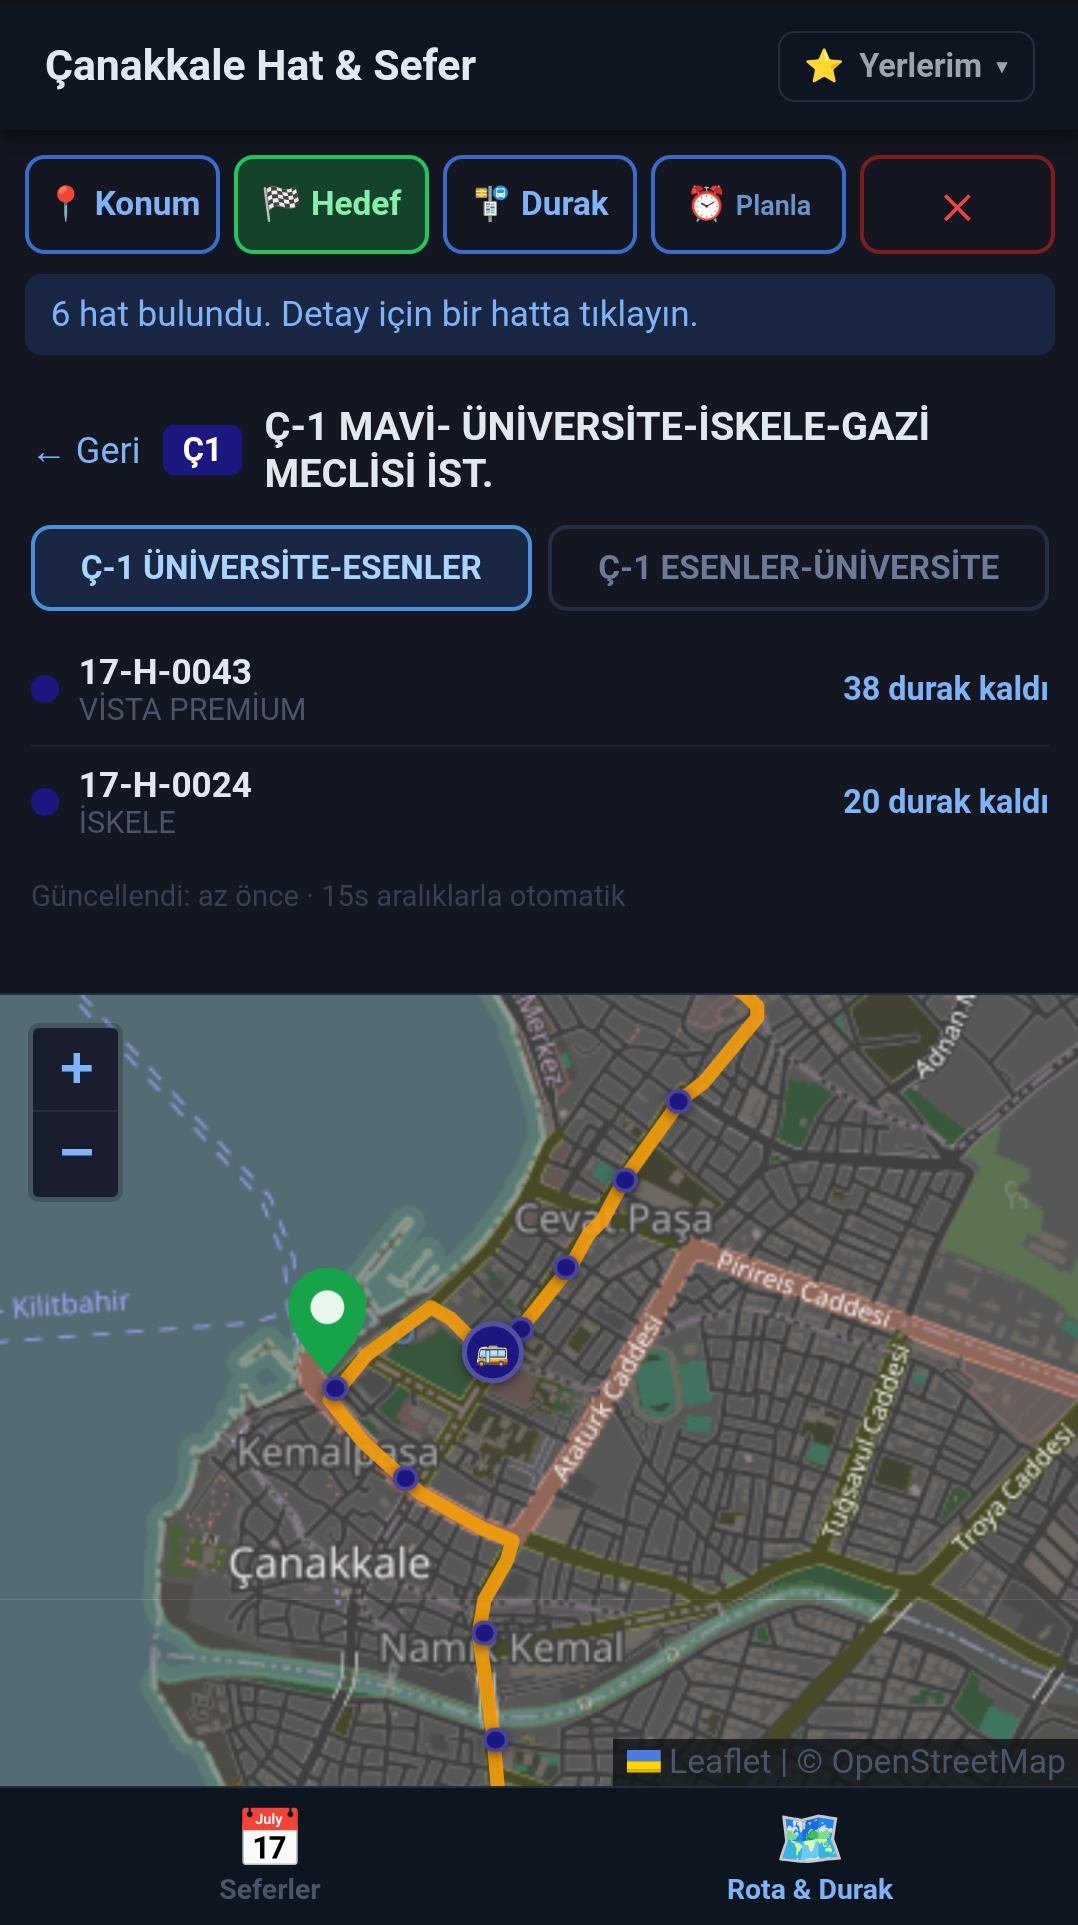
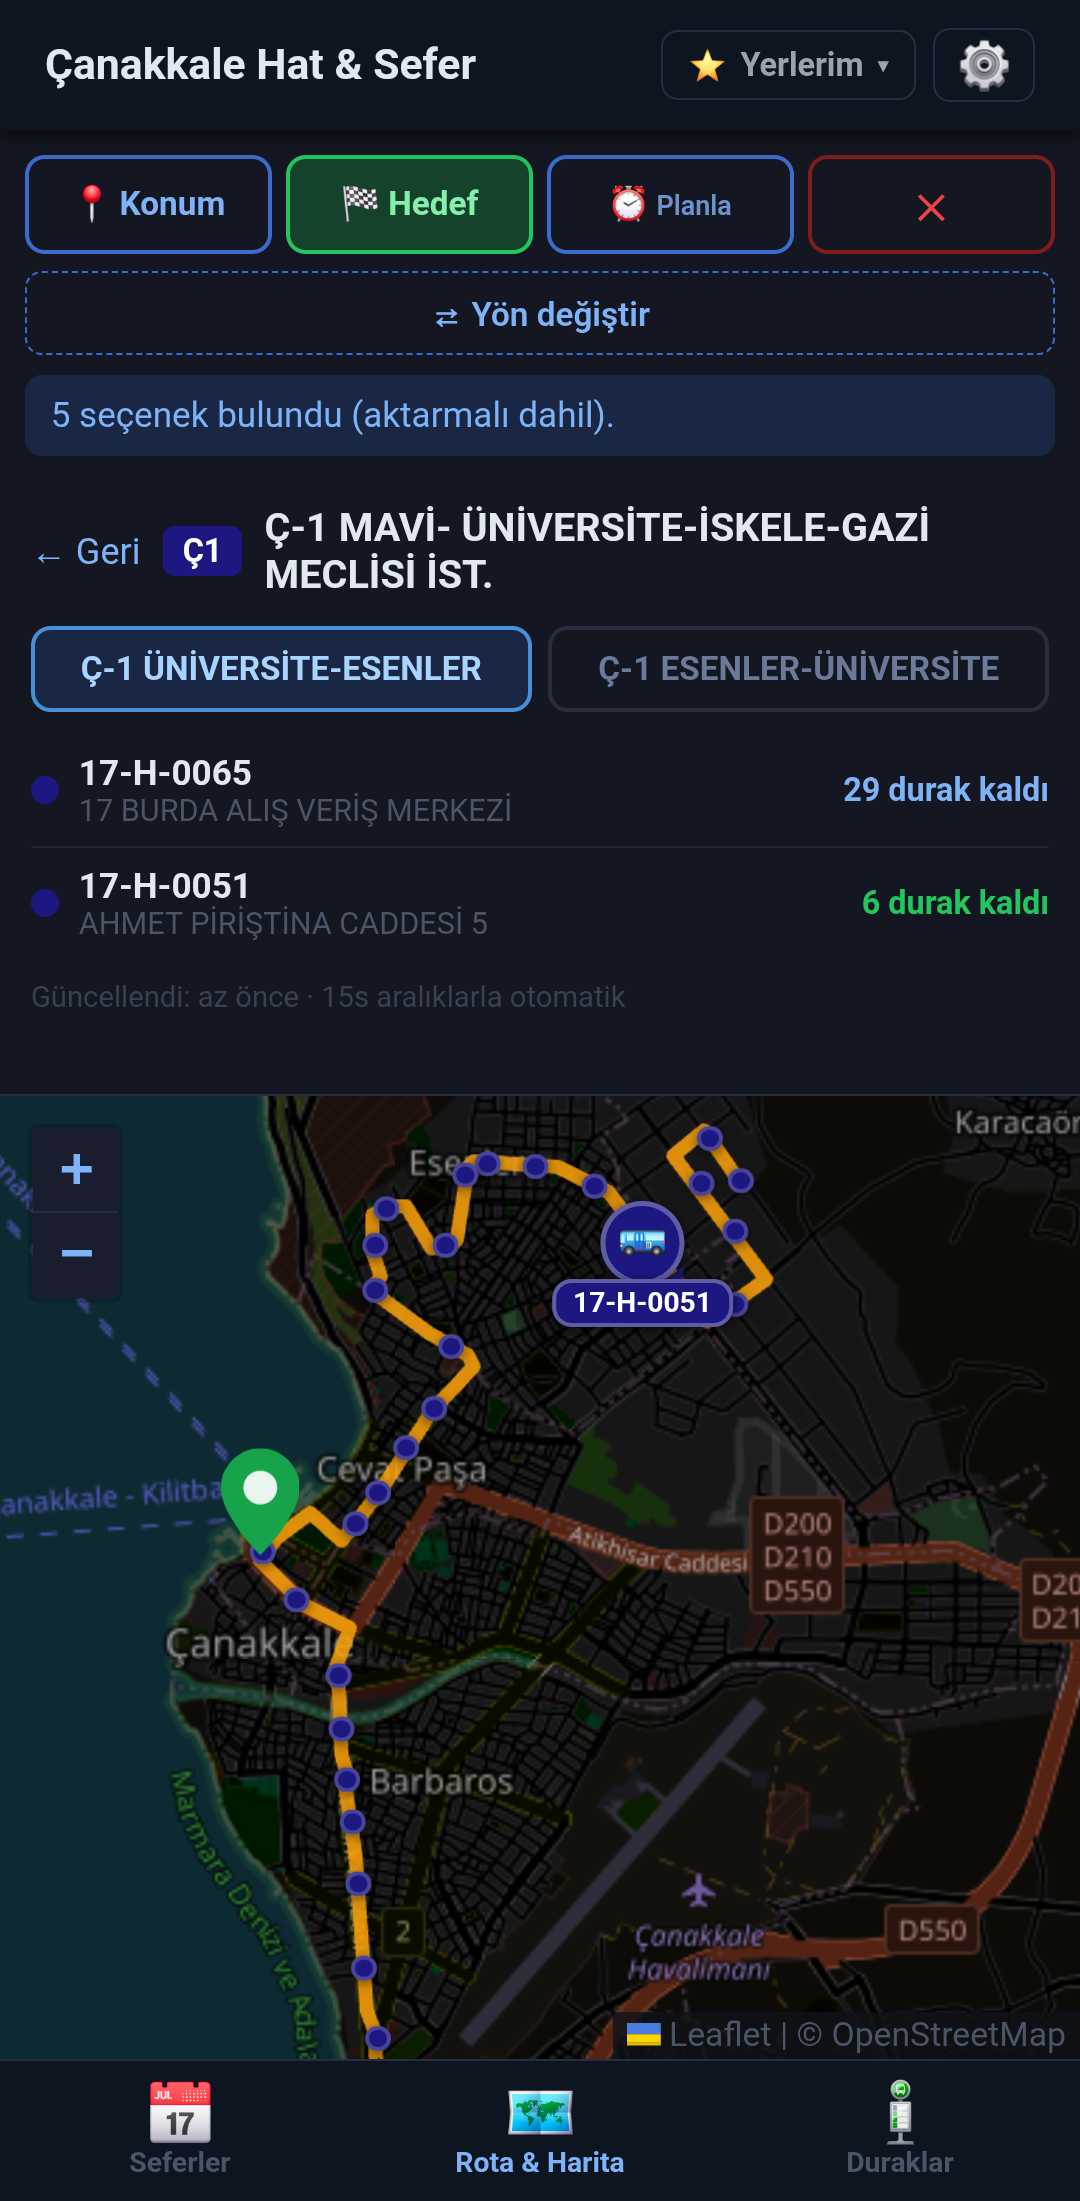
update canakkale-hat-sefer.md and its screenshots

diff --git a/_pages/projects/canakkale-hat-sefer.md b/_pages/projects/canakkale-hat-sefer.md
@@ -38,16 +38,22 @@ Each tab shows all routes with departure times split by direction. On today's ta
 
 ---
 
-## Rota & Durak — Trip Planner & Live Map
+## Rota & Harita — Trip Planner & Live Map
 
-Tap the map (or use GPS) to pick a start and destination. The planner finds all direct routes connecting them and ranks results by **total ETA** — walk to stop + wait for next bus + ride + walk to destination.
+Tap the map (or use GPS) to pick a start and destination. The planner finds all direct routes **and one-transfer trips** connecting them and ranks results by **total ETA** — walk to stop + wait for next bus + ride + walk to destination.
 
+- **One-transfer trips** — when no single bus connects the two points, or a transfer is faster, the planner assembles a two-leg trip with a walking transfer between lines. A transfer only outranks a direct bus when it genuinely saves time
+- **Real walking distances** — walking segments use Valhalla pedestrian routing, so reachability and ETAs reflect actual on-foot distances that cross roads and follow footpaths, batched through Valhalla's distance-matrix API
+- **Taxi alternative** — each result list ends with a 🚕 taxi card showing driving distance, time, and an approximate fare from the Çanakkale tariff; tap it to draw the cab's route on the map
 - **Plan ahead** — time offset buttons (+30 dk, +1 sa, +2 sa) plan for departures later in the day
 - **Live bus data** — shows buses approaching your boarding stop right now with stop-level ETAs
 - **Schedule fallback** — when kentkart returns no live data, the next scheduled departure is used instead. On Bayram, Arefe, or any dated special day, the planner consults the matching schedule instead of the regular weekday one
 - **Stop browser** — tap any stop on the map to see which routes serve it and when the next bus comes
 
-![Trip planner](/assets/images/17hatsefer-planner.png)
+<p>
+  <img src="/assets/images/17hatsefer-planner.png" width="49%" alt="Trip planner showing route options sorted by ETA">
+  <img src="/assets/images/17hatsefer-one-transfer.png" width="49%" alt="One transfer trip map view">
+</p>
 
 ---
 
@@ -72,6 +78,22 @@ Subscribe to arrival alerts from any trip detail. Notifications fire at **10, 5,
 Bookmark home, work, or any frequent spot. Saved locations appear in a dropdown next to the app title — tap 📍 or 🏁 to instantly set one as your origin or destination without touching the map.
 
 The planner also remembers your last 5 destinations as a chip row, and a **⇄ Yön değiştir** button swaps origin and destination in place when both are set.
+
+---
+
+## Duraklar — Stop Hub
+
+A dedicated tab for finding and managing stops without touching the map.
+
+- **Search** by stop name with Turkish-folded matching, so `kepez` finds *Kepez* and `iskele` finds *İskele* regardless of dotted/dotless I and other Turkish letters
+- **Favoriler** — star any stop to pin it to the top of the list, persisted across reloads
+- **Son açılanlar** — the last 5 stops you opened
+- **Yakındaki duraklar** — the 8 nearest stops when GPS is granted, each row showing its distance, with a graceful fallback when location is denied
+- **Route chips** — every stop row carries the kentkart route color badges that serve it, so you can pick the right stop at a glance
+- **Detail view** — tap a stop to see its routes with live status per direction (*durağa geldi*, *N durak uzaklıkta*, *aktif araç yok*, or a scheduled fallback), sorted with the closest approaching bus first
+- **📍 Haritada göster** drops a labelled pin for that exact stop on the planner map, and **🔗 Paylaş** generates a `?stop=<id>` deep-link via the native share sheet or clipboard so others can open the same stop directly
+
+![Duraklar tab](/assets/images/17hatsefer-stops.png)
 
 ---
 
@@ -113,6 +135,7 @@ sequenceDiagram
     participant User
     participant Browser as Browser (index.html)
     participant GHPages as GitHub Pages
+    participant Valhalla as Valhalla
     participant Kentkart as Kentkart API
 
     User->>Browser: Open app
@@ -122,11 +145,14 @@ sequenceDiagram
     GHPages-->>Browser: Routes, stop coords, path polylines
 
     User->>Browser: Tap map origin + destination
-    Browser->>Browser: Find routes connecting stops
+    Browser->>Valhalla: Pedestrian distance matrix (origin/dest ↔ nearby stops)
+    Valhalla-->>Browser: Real on-foot walk distances
+    Browser->>Browser: Build direct + 1-transfer trips, rank by ETA
     Browser->>Kentkart: GET /pathInfo for each candidate route
     Kentkart-->>Browser: Live bus positions
-    Browser->>Browser: Compute ETA = walk + wait + ride + walk
-    Browser-->>User: Ranked trip list
+    Browser->>Valhalla: Car route (taxi estimate)
+    Valhalla-->>Browser: Distance + time
+    Browser-->>User: Ranked trip list + taxi card
 </div>
 
 ---
@@ -288,16 +314,17 @@ The `kind` is one of `weekday`, `weekend`, `special`, `effective-weekday`, `effe
 ## ETA calculation
 
 ```
-totalETA = walkToStop + waitForBus + rideTime + walkToDestination
+direct   ETA = walkToBoard + wait + ride + walkToDest
+transfer ETA = walkToBoard + wait1 + ride1 + transferWalk + wait2 + ride2 + walkToDest
 
-walkToStop       = haversine(userLat, userLng, stopLat, stopLng) / walkingSpeedMs
-waitForBus       = live: stopsAway × avgSecondsPerStop
-                   schedule: secondsUntilNextDeparture + stopsToBoard × avgSecondsPerStop
-rideTime         = stopsFromBoardToAlight × avgSecondsPerStop
-walkToDestination= haversine(alightLat, alightLng, destLat, destLng) / walkingSpeedMs
+walkToBoard / walkToDest = Valhalla pedestrian distance / walkingSpeed
+wait                     = live: stopsAway × minsPerStop
+                           schedule: minsUntilNextDeparture (evaluated at your arrival at the stop)
+ride                     = stopsFromBoardToAlight × minsPerStop
+transferWalk             = straight-line distance between the two transfer stops / walkingSpeed
 ```
 
-Results are sorted ascending. The blue highlight in the Seferler tab marks the earliest upcoming departure using the same schedule data.
+Walking distances come from Valhalla pedestrian routing — a stop counts as reachable only if its real on-foot distance fits your walking radius, computed in a couple of distance-matrix calls per plan. Direct and transfer trips are ranked together by ETA, with a small penalty on transfers so a change of bus has to genuinely save time to outrank a single bus. When nothing fits the walking radius, the planner falls back to longer-walk options, flagged as such. Each result list also carries a taxi estimate from Valhalla's shortest-path car route priced against the Çanakkale tariff.
 
 ---
 
@@ -306,6 +333,7 @@ Results are sorted ascending. The blue highlight in the Seferler tab marks the e
 | Layer | Library / Service |
 |-------|------------------|
 | Maps | [Leaflet 1.9](https://leafletjs.com/) + OpenStreetMap tiles, canvas renderer |
+| Routing | [Valhalla](https://valhalla.openstreetmap.org/) — pedestrian distance-matrix for trip walks, shortest-path car route for the taxi estimate |
 | PDF parsing | [pdf.js](https://mozilla.github.io/pdf.js/) (Node.js, server-side in CI) |
 | Live bus data | [Kentkart](https://kentkart.com) public API |
 | Push notifications | Web Push (RFC 8030 / 8291 / 8292) via [Cloudflare Workers](https://workers.cloudflare.com/) |